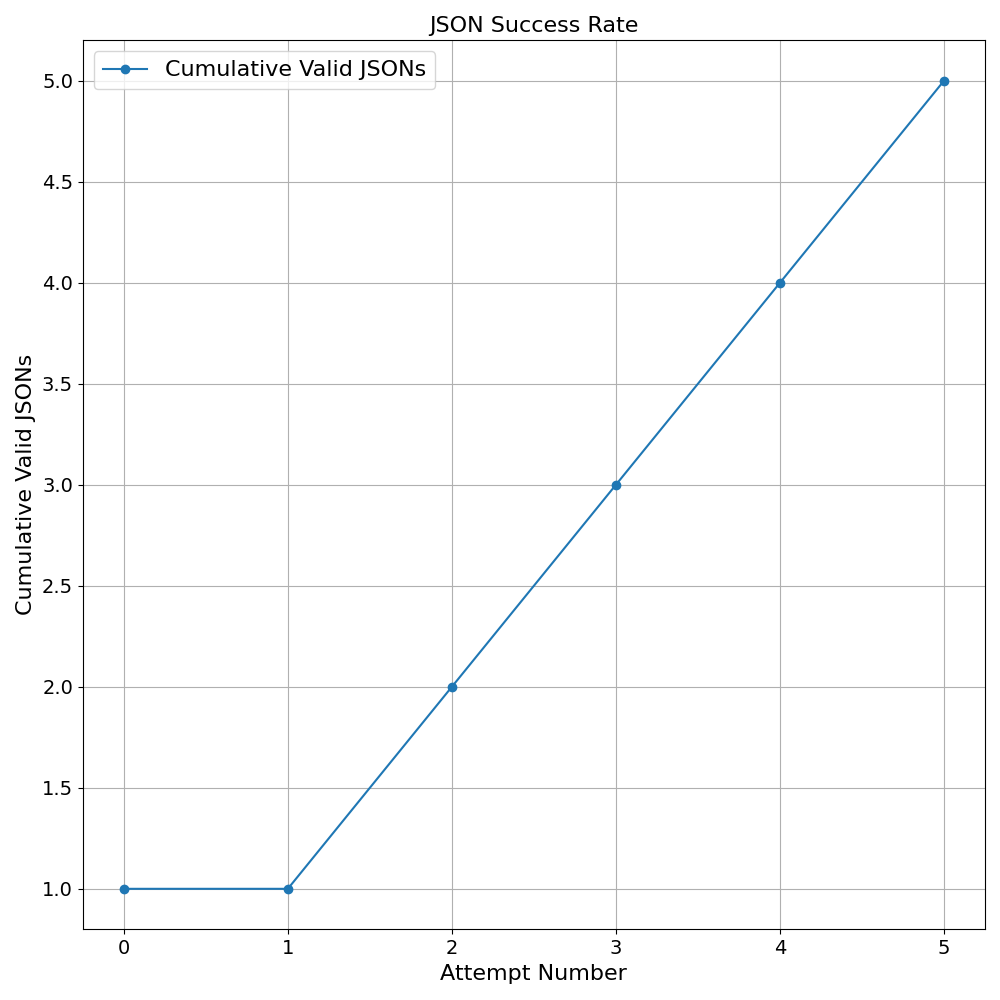
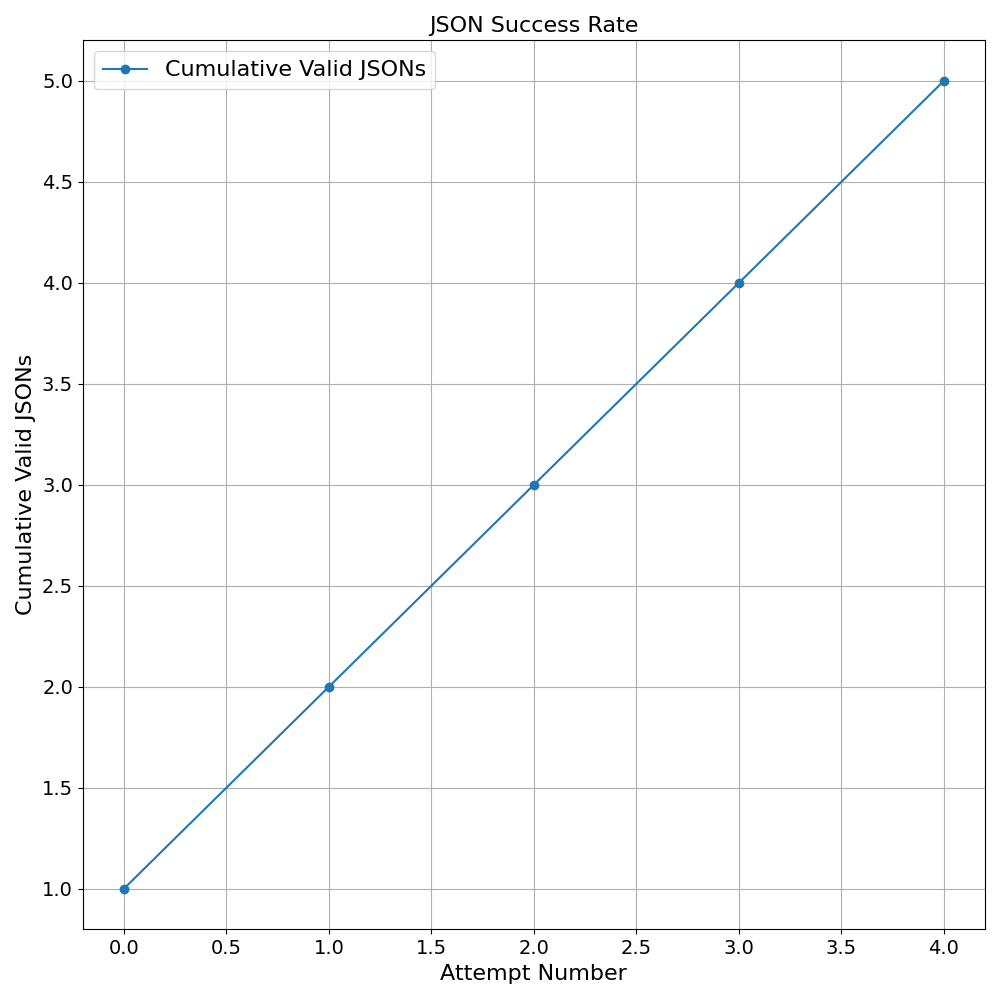
timestamp ordering in pronpt

diff --git a/LLMs_approach/src/generate_activities.py b/LLMs_approach/src/generate_activities.py
@@ -340,16 +340,22 @@ def build_generation_prompt(strategy, user_id, history, global_clock, accounts, 
 
     if history:
         time_instruction = (
-        f"The most probable transaction should follow the user's historical behavior.\n"
-        f"### History Summary:\n{history}\n"
-        f"- Ensure `bank_timestamp` is strictly increasing compared to the previous transaction bank_timestamp {last_timestamp}.\n"
-        "- **Realistic Time Differences:** Ensure that the time gap between the current transaction bank_timestamp and the previous transaction is realistic given the geographical locations. For instance, if the previous transaction was in Paris and the current one is in Berlin (or another distant European city), the time interval should be long enough to be plausible—if it is too short, it would trigger suspicion.\n"
+            f"### Timing Instructions:\n"
+            f"- The new `bank_timestamp` MUST be strictly later than: **{last_timestamp}**.\n"
+            "- NEVER reuse the same `bank_timestamp` or make it earlier.\n"
+            "- Use a time interval that is realistic based on the user behavior and location change.\n"
+            "- Example: if the last transaction was in Paris and the next is in Tokyo, ensure several hours of gap.\n"
+            "- Avoid generating multiple transactions in the same second or minute.\n"
         )
-    else:  
-        time_instruction = ( 
-        f"Initialize the `bank_timestamp` for the activity by starting from {global_clock} and adding a randomly selected time interval (typically in the range of a few minutes).\n"
-        f"The `local_timestamp` as `bank_timestamp` time in the chosen `location`.\n"
+    else:
+        time_instruction = (
+            f"### Timing Instructions:\n"
+            f"- Initialize the `bank_timestamp` starting from: **{global_clock}**.\n"
+            "- The first activity must begin a few minutes later than the global clock.\n"
+            "- Always compute the correct `local_timestamp` from the UTC `bank_timestamp` using the time zone of the `location`.\n"
         )
+
+    # Main assembly
 
 
     # **Main Prompt Assembly**
@@ -365,13 +371,18 @@ def build_generation_prompt(strategy, user_id, history, global_clock, accounts, 
         field_explanation,
         "### Additional Constraints:\n",
         f"The possible accounts the user can operate on are: {accounts}. Pick the most probable one for your activity. Don't generate new account ids!\n",
-        f"- The `amount` must be within the strategy's typical amount range and smaller than balance on the chosen account.\n",
+        f"- The `amount` must be a float within the strategy's typical amount range and smaller than balance on the chosen account.\n",
         "- Derive `ip_address` realistically from the transaction location. Examples:\n",
         "  - USA locations → US-based IPv4 ranges (73.x.x.x, 24.x.x.x).\n",
         "  - Europe locations → European IPv4 ranges (81.x.x.x, 217.x.x.x).\n",
         "  - China locations → Chinese IPv4 ranges (202.x.x.x, 223.x.x.x).\n",
         "- Ensure the generated JSON follows a flat structure with NO comments or extra text.\n",
         "- DO NOT include any explanations, calculations, or metadata—ONLY return the JSON within ```json and ```end_json.\n",
+        "### Timing Requirements Recap:\n",
+        "- NEVER repeat timestamps.\n",
+        "- Always increase `bank_timestamp`.\n",
+        "- Use realistic time gaps between locations.\n",
+        "- Respect travel time when the country changes (e.g., no Paris → Tokyo in 1 minute).\n",
        "- Make sure the `local_timestamp` is correctly converted from the `bank_timestamp` based on the transaction location.\n",
     ]
 
